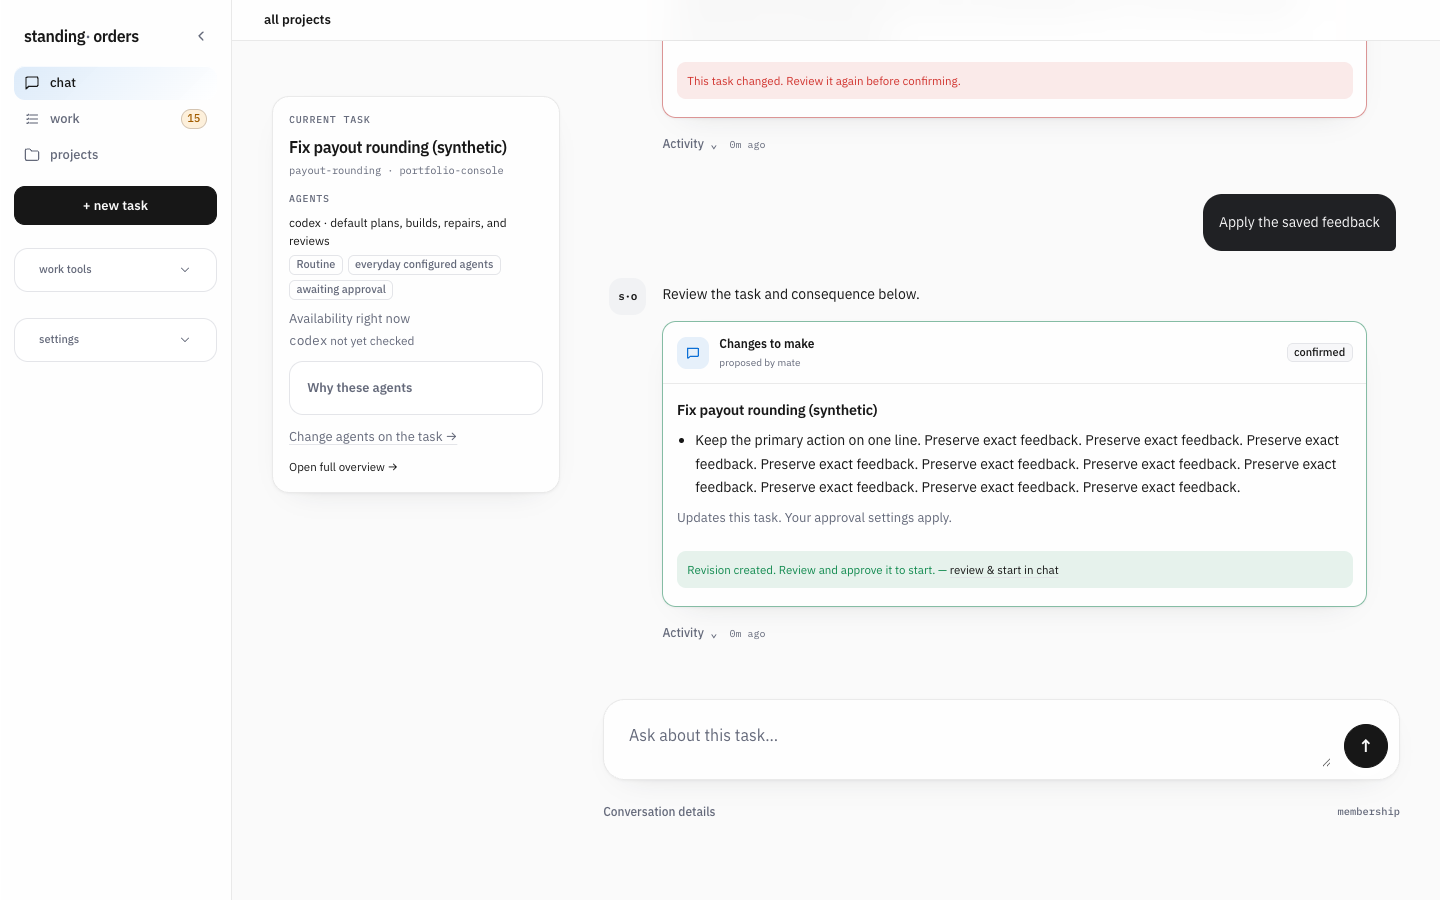
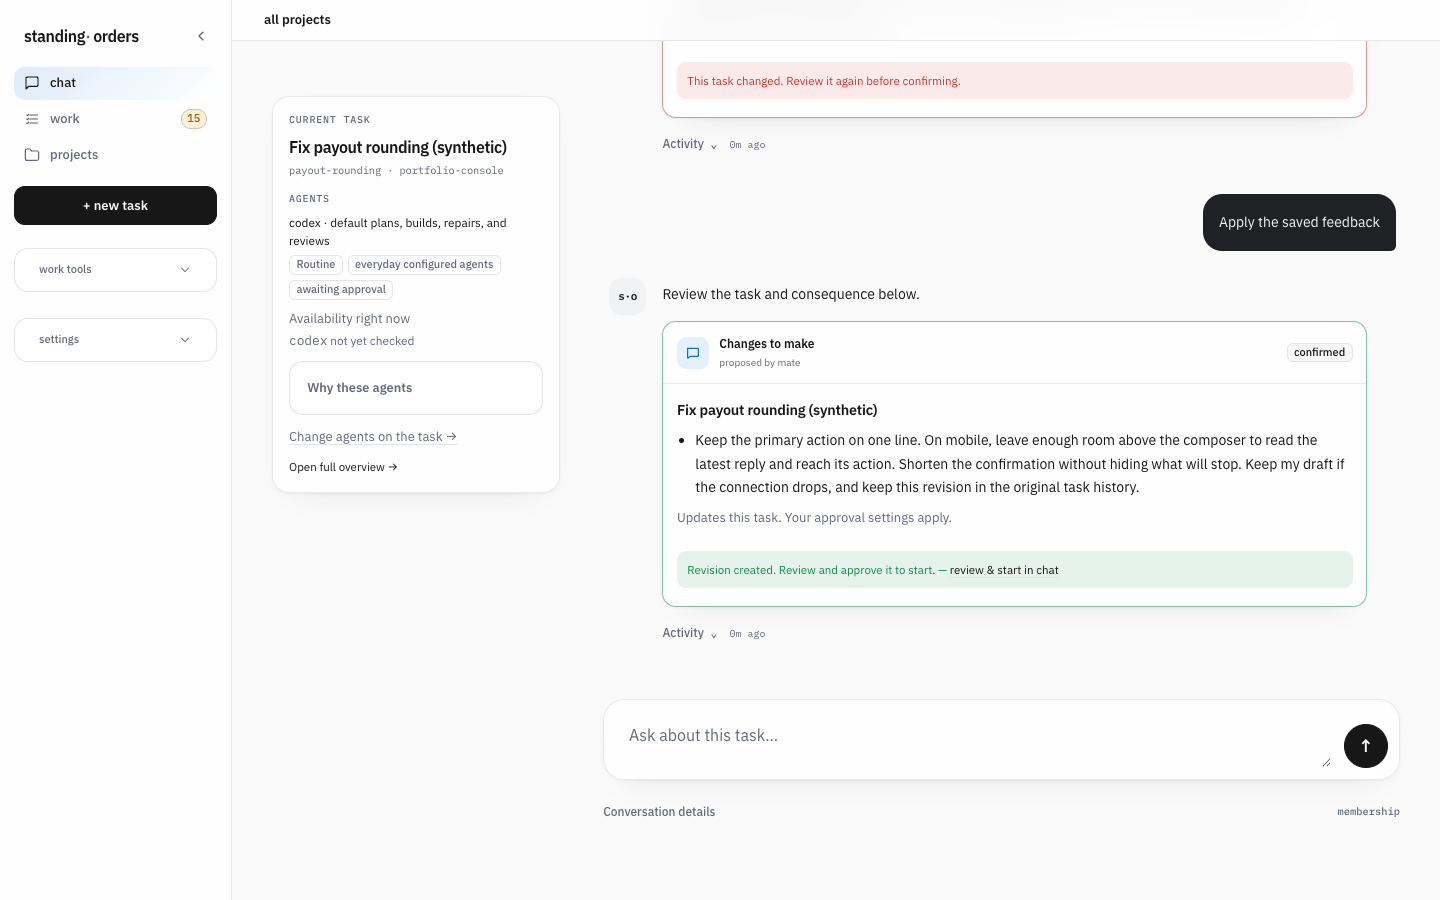
revise-revise-chat-stop-resume-20260915-fix-1-from-1-ann: Let a user stop the current task execution and resume eligible…
Evidence follow-up complete on the prepared candidate 515b307: fresh desktop and 390px captures, readable journey output, a manifest and an inherited-controls table are in the tree; no code, tests, history or runtime changed. Typecheck, 8 affected suites (107), 4 filtered serve/door cases and the 72-assertion browser journey all passed. Full verifier left to the machine gate (c4 pending).

Changed region(s): [[0.4688, 0.4667, 0.9375, 0.56]]

diff --git a/docs/CHAT_STOP_RESUME_2026-09-15.md b/docs/CHAT_STOP_RESUME_2026-09-15.md
@@ -152,3 +152,53 @@ the installed root, rerun the full suite in review, change runtime/settings,
 rewrite sealed history or weaken any evidence, approval or execution safeguard.
 The screenshot's old repeated filler was fixture text, not actual model output;
 the prepared script already replaces it with realistic long feedback.
+
+## Evidence follow-up (build #1606 comment 329): current captures on the prepared candidate
+
+Branch `standing-orders/revise-revise-chat-stop-resume-20260915-fix-1-from-1-ann`, uncommitted on top of `515b307`, which already merges deployed `8efa954` with the phone revision `ec49769` and the realistic-feedback script fix `88ef100`. Verified before any check: `a97f74b`, `8efa954` and `ec49769` are all ancestors of HEAD; the installed checkout and its database were not rebuilt, migrated or read. No product code, test, script, history or runtime setting changed in this follow-up: the phone overlap repair, the two-sentence stop consequence and every deployed process-identity fix stand as merged. What was missing — and is now in the sealed tree — is evidence of that exact candidate.
+
+**Inherited controls, unchanged and exercised by this journey.** Chat adds no second task system; each step lands on the control that already owns it:
+
+| Step in chat | Owner (unchanged in this lineage) | Where the journey proves it |
+| --- | --- | --- |
+| Stop task confirmation | `requestTaskStop` in `src/task-control.ts`, called from `src/chat-task-actions.ts` with the exact task, run and current stamp | "stop requested is still stopping", "repeated confirmation records one stop" |
+| Observed status on both screens | `taskControlOf` projection (`src/task-control.ts`) behind `[data-task-control]` on chat and `/t/:task` | "chat and task show stopping for the same run", "task and chat agree after resume" |
+| Worker acknowledgement | `finalizeInterruptedFenced` in `src/claim.ts` (synthetic call in the journey; real subprocess trees in `src/task-control-process.test.ts`) | "task-page acknowledgement reaches chat without clearing draft" |
+| Resume ceremony | `armTaskResume` in `src/serve.ts`, then the task page's own `/t/:task/resume` password form and nonce | "resume opens existing nonce and password form", "wrong password refuses resume" |
+| Stale card | The proposal confirmation door re-checks the task stamp | "stale card refuses without draft loss" |
+| Draft across confirmation, refusal and updates | Tab draft storage and live-region reconciliation in `src/chat-continuity.ts` | every "preserves … draft" and "retains chat draft" check |
+| Feedback and same-task revision | Shared `liveDiffComments` history and the one-task revision lineage (`taskFamilyOf`, `revisionLineageOf`) | "result feedback saved in shared history", "revision preserves one task and result lineage", "revision replay creates no duplicate" |
+
+**Focused checks run by the builder** (readable output: [journey-output.txt](../evidence/chat-stop-resume-2026-09-15/journey-output.txt)):
+
+| Command | Result |
+| --- | --- |
+| `npm run typecheck` | Passed, exit 0. |
+| `npx vitest run src/chat-task-actions.test.ts src/mate-doors.test.ts src/mate.test.ts src/task-control-console.test.ts src/task-control.test.ts src/chat-continuity.test.ts src/chat-polish.test.ts src/mobile-viewport.test.ts` | 8 files, 107 tests passed; its setup compiled this worktree's local runtime. |
+| `npx vitest run src/serve.test.ts src/mate-doors.test.ts -t 'chat review|stop confirmation|same task: two revisions'` | 4 selected tests passed (317 excluded by the name filter, none changed or skipped in source). |
+| `node scripts/chat-stop-resume-journey.mjs --capture` | 72 assertions passed at 1440×900 and 390×844; wrote the eleven captures below. |
+| `node scripts/chat-stop-resume-journey.mjs` | 72 assertions passed again in the durable non-capturing mode the proof cites. |
+
+The unchanged approved full verifier was **not** run by the builder; it runs once at the machine's final gate for this exact sealed candidate, and c4 stays pending-verification until then. Remaining gap from repair 1 stands: `scripts/workspace-result-proof.mjs` is outside the verifier and untouched.
+
+**Screenshots** — all eleven are current Chrome viewport captures of this candidate. Eight are byte-identical to the reviewed build's files (the merge changed nothing they render); the three revision captures now carry the realistic saved feedback instead of the old "Preserve exact feedback" filler, which was fixture text rather than model output. Hashes: [follow-up-manifest.json](../evidence/chat-stop-resume-2026-09-15/follow-up-manifest.json); assertion list: [browser-report.json](../evidence/chat-stop-resume-2026-09-15/browser-report.json).
+
+| Screenshot | What it shows |
+| --- | --- |
+| [Desktop empty chat](../evidence/chat-stop-resume-2026-09-15/desktop-empty.png) | Running task with its Stop control before any message. |
+| [Desktop stop confirmation](../evidence/chat-stop-resume-2026-09-15/desktop-stop-confirm.png) | Stop task? naming the task and Run #, two-sentence consequence, one primary Stop task. |
+| [Desktop stopping](../evidence/chat-stop-resume-2026-09-15/desktop-stopping.png) | Task page reads Stopping… while chat shows the confirmed card and Stop requested receipt; the draft is still in the composer. |
+| [Desktop refusal and draft](../evidence/chat-stop-resume-2026-09-15/desktop-refusal-draft.png) | Stale card refused in plain words; unsent draft intact. |
+| [Desktop result](../evidence/chat-stop-resume-2026-09-15/desktop-result.png) | Exact result, Changes tab, diff and the feedback form. |
+| [Desktop revision](../evidence/chat-stop-resume-2026-09-15/desktop-revision.png) | Same-task revision receipt with the realistic feedback and its review link in view. |
+| [390px long stop confirmation](../evidence/chat-stop-resume-2026-09-15/phone-stop-confirm-long.png) | Long unbroken title wraps; single-line 44px buttons; no overflow. |
+| [390px resume ceremony](../evidence/chat-stop-resume-2026-09-15/phone-resume-password.png) | Resume task? with retained limits, record behind one disclosure, password control. |
+| [390px refusal and draft](../evidence/chat-stop-resume-2026-09-15/phone-refusal-draft.png) | Stale-card refusal with the draft still present under it. |
+| [390px revision](../evidence/chat-stop-resume-2026-09-15/phone-revision.png) | Receipt and plan link readable above the composer on arrival (the repaired defect). |
+| [390px revision, typing](../evidence/chat-stop-resume-2026-09-15/phone-revision-typing.png) | Simulated keyboard: composer raised with the draft; receipt end and link still above it. |
+
+Simplicity pass on these captures: each state has one title, one outcome and one primary action (Stop task, Resume task, review & start in chat); the resume record and worktree path stay behind Stop record and saved work; refusals say what changed and what to do. Nothing further was found to remove without hiding a safeguard, so no copy changed.
+
+Honest labels: synthetic fixture data and a scripted chat provider with zero model calls; the keyboard is a shrunk visual viewport, not a physical phone or Safari; the worker acknowledgement in the browser journey is a direct fenced call, not a live process (real subprocess behaviour is covered by `src/task-control-process.test.ts`, unchanged).
+
+Follow-up receipt: builder Claude Opus 5 (`claude-opus-5`), no subagents, zero live model calls, zero operator interventions or permission questions. Comment 329 recorded 2026-09-15T18:53:28Z; checks and captures ran from about 18:54Z to 18:57Z, roughly 4 minutes, with the handoff written after. One builder correction: none needed — every focused check passed first time. No commit, push, branch switch, installed-database migration, rebuild of the installed root, or provider/permission change.
